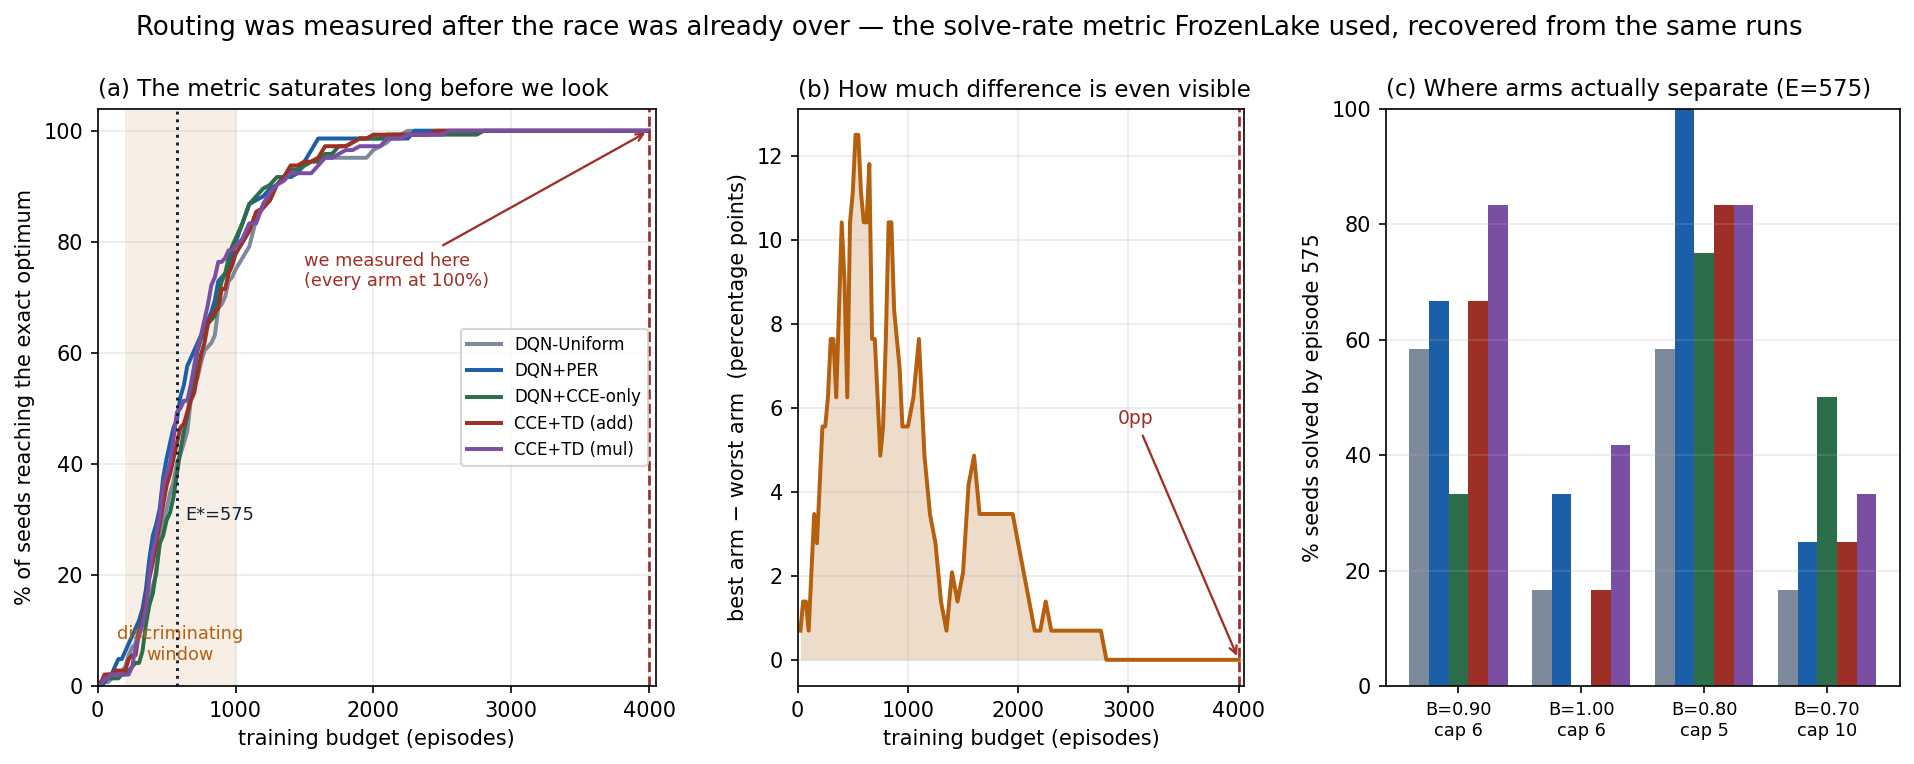
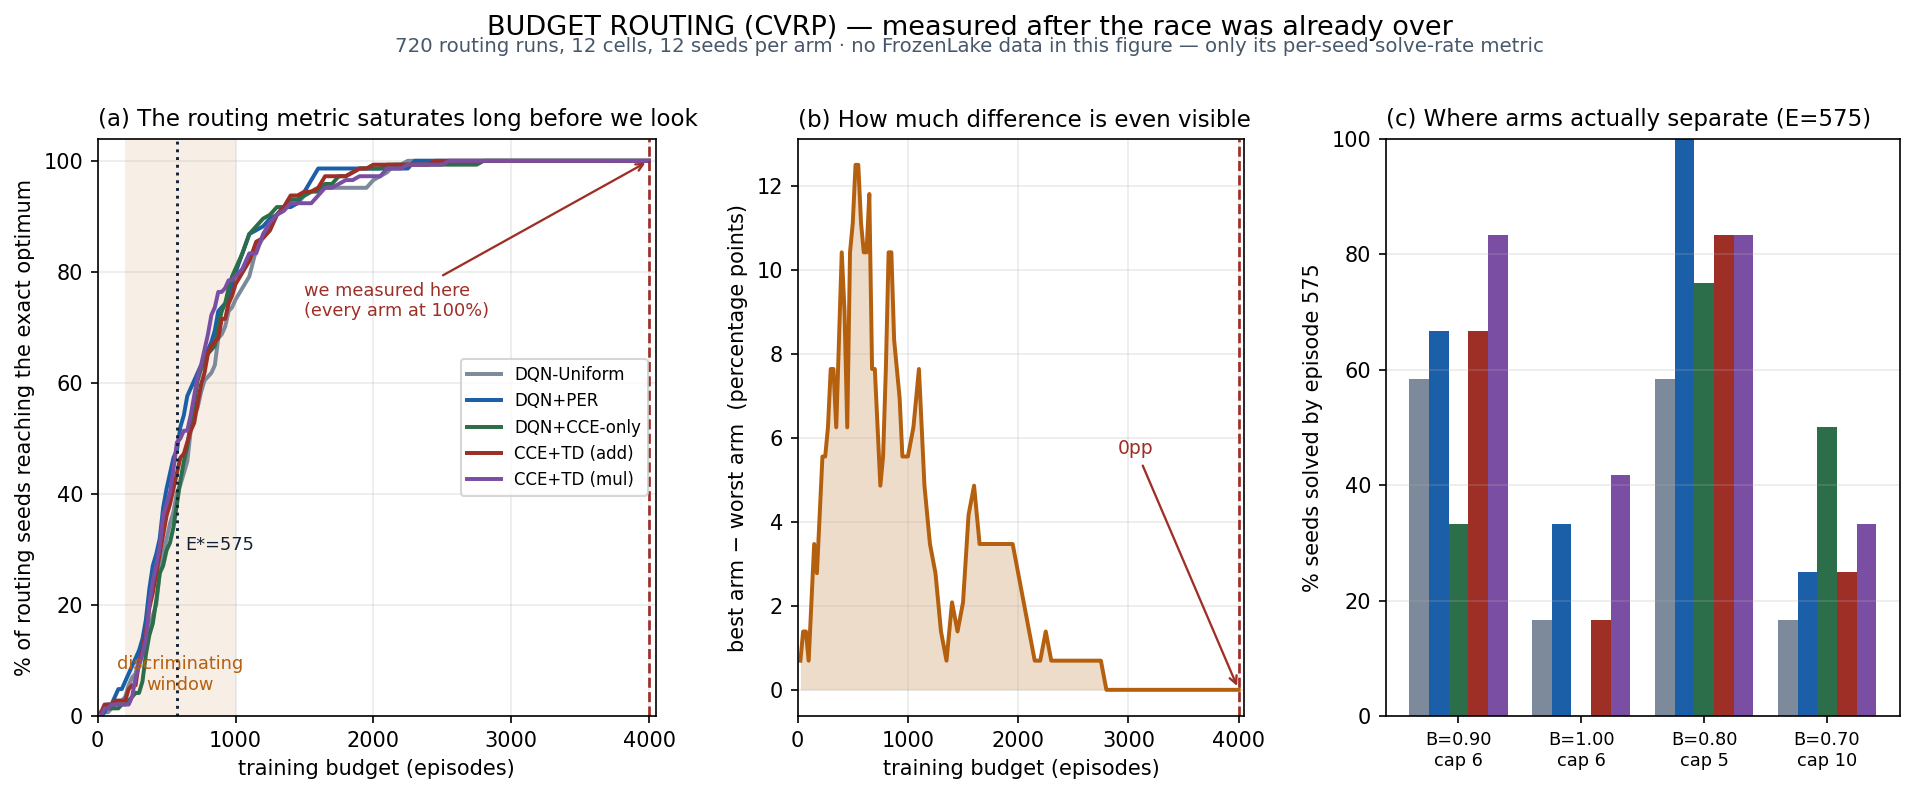
Make the solve-rate figure say whose data it is
The title read 'the solve-rate metric FrozenLake used', which invited the reading
that the data was FrozenLake's. Every number in the figure is budget routing; only
the metric is borrowed. Title now leads with BUDGET ROUTING (CVRP) and the subtitle
states the run count and that no FrozenLake data appears in it.

Claude-Session: https://claude.ai/code/session_019Xzvv6y6ZRCCiMAQNncbQm

diff --git a/src/counterfactual_rl/analysis/claim2/cvrp_solve_rate.py b/src/counterfactual_rl/analysis/claim2/cvrp_solve_rate.py
@@ -142,8 +142,9 @@ def _plot(grid, curves, spread, e_star, data, args):
     ax.axvline(e_star, color='#122236', ls=':', lw=1.4)
     ax.text(e_star + 60, 30, f'E*={e_star}', fontsize=8.5, color='#122236')
     ax.set_xlabel('training budget (episodes)')
-    ax.set_ylabel('% of seeds reaching the exact optimum')
-    ax.set_title('(a) The metric saturates long before we look', fontsize=11, loc='left')
+    ax.set_ylabel('% of routing seeds reaching the exact optimum')
+    ax.set_title('(a) The routing metric saturates long before we look',
+                 fontsize=11, loc='left')
     ax.set_ylim(0, 104); ax.set_xlim(0, 4050)
     ax.grid(alpha=.25); ax.legend(fontsize=8, loc='center right')
 
@@ -175,9 +176,16 @@ def _plot(grid, curves, spread, e_star, data, args):
     ax.set_title(f'(c) Where arms actually separate (E={e_star})', fontsize=11, loc='left')
     ax.grid(alpha=.25, axis='y'); ax.set_ylim(0, 100)
 
-    fig.suptitle('Routing was measured after the race was already over — '
-                 'the solve-rate metric FrozenLake used, recovered from the same runs',
-                 fontsize=12.5, y=1.005)
+    # Be explicit about WHOSE data this is: the metric is borrowed from the FrozenLake
+    # analysis, but every number here is budget routing. An earlier title said
+    # "the metric FrozenLake used", which read as if the data were FrozenLake's.
+    n_runs = sum(len(v) for cell in data.values() for v in cell.values())
+    fig.suptitle('BUDGET ROUTING (CVRP) — measured after the race was already over',
+                 fontsize=13, y=1.045)
+    fig.text(0.5, 0.995,
+             f'{n_runs} routing runs, {len(data)} cells, 12 seeds per arm · '
+             f'no FrozenLake data in this figure — only its per-seed solve-rate metric',
+             ha='center', fontsize=9.5, color='#48586B')
     out = Path(args.out); out.mkdir(parents=True, exist_ok=True)
     p = out / 'fig_c2_cvrp_solve_rate.png'
     fig.savefig(p, dpi=150, bbox_inches='tight')
